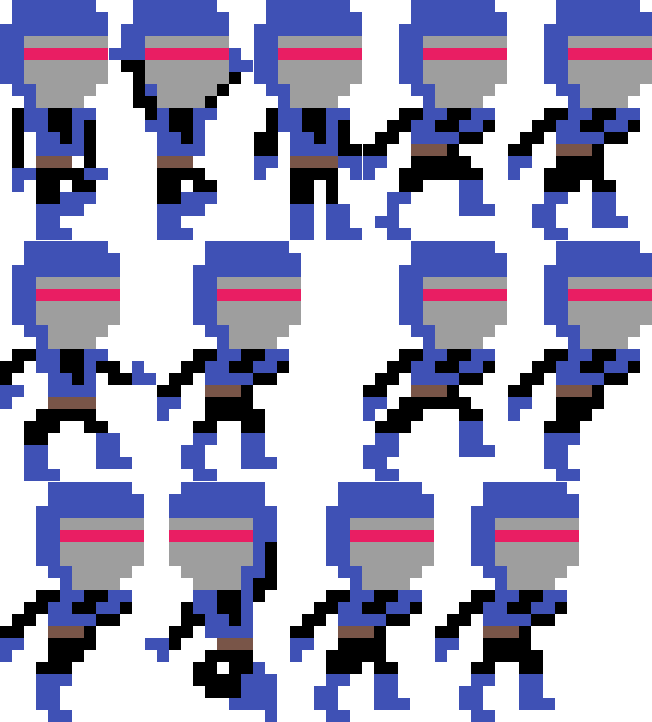
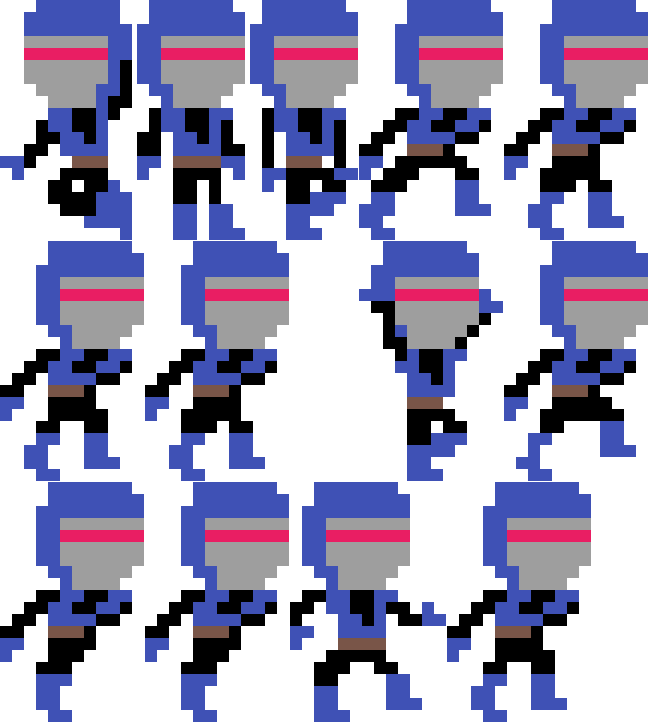
Added a dash bar, but can't find a way to have it read from player variables.

Changed region(s): [[0.0, 0.0, 0.9259, 1.0], [0.8951, 0.5485, 0.9877, 0.6399], [0.6481, 0.1219, 0.679, 0.1524]]

diff --git a/myGame/js/Player.js b/myGame/js/Player.js
@@ -1,21 +1,24 @@
 
 var gameOptions = {
     playerGravity: 900, 
-    playerSpeed: 200,
+    playerSpeed: 250,
     playerJump: 400,
     playerWallJump: 400,
-    playerForce: 225
+    playerForce: 225,
+    playerDash: 400
 }
 
 var jumpButtonDown = false;
 var wallJumpRight = false;
 var wallJumpLeft = false;
 var inAir = false;
-var dash = 0;
+var dash = 90;
+var jumpTime = 0;
+var invincible = false;
 
 function Player(game, x, y, frame) {
 	// call to Phaser.sprite // new sprite (game, x, y, key, frame)
-	Phaser.Sprite.call(this, game, x, y, 'ninja', 'idle');
+	Phaser.Sprite.call(this, game, x, y, 'ninja', 'wallCling');
 	this.anchor.setTo(0.5, 0.5);
     this.scale.setTo(0.3);
 
@@ -27,6 +30,8 @@ function Player(game, x, y, frame) {
     this.body.collideWorldBounds = true;
     this.body.gravity.y = gameOptions.playerGravity;
     this.frameName = 'jump';
+
+    
 }
 
 Player.prototype = Object.create(Phaser.Sprite.prototype);
@@ -59,16 +64,14 @@ Player.prototype.update = function() {
 
         //running animsation for left and right movement
         if(game.input.keyboard.isDown(Phaser.Keyboard.LEFT)){
-        	this.scale.x = -0.3
-        	if(!inAir){
+        	if(!inAir || (inAir && game.time.time > jumpTime)){
             	this.body.velocity.x = -gameOptions.playerSpeed;
-            	this.animations.play('run');
+            	if (!inAir) this.animations.play('run');
             }
         } else if (game.input.keyboard.isDown(Phaser.Keyboard.RIGHT)){
-        	this.scale.x = 0.3
-        	if(!inAir){
+        	if(!inAir || (inAir && game.time.time > jumpTime)){
             	this.body.velocity.x = gameOptions.playerSpeed;
-            	this.animations.play('run');
+            	if (!inAir) this.animations.play('run');
             }
         } 
 
@@ -86,6 +89,7 @@ Player.prototype.update = function() {
         // Can only jump once while  on top of a platform
         if (this.body.touching.down && !inAir) {
             if(!jumpButtonDown && game.input.keyboard.isDown(Phaser.Keyboard.SPACEBAR)) {
+            	inAir = true;
             	this.animations.stop();
             	this.frameName = 'jump';
                 this.body.velocity.y = -gameOptions.playerJump;
@@ -126,6 +130,7 @@ Player.prototype.update = function() {
             this.body.velocity.y = -gameOptions.playerWallJump;
             this.body.velocity.x = -gameOptions.playerForce;
             wallJumpRight = false;
+            jumpTime = game.time.time + 500;
         }
 
         //Wall jump Left
@@ -134,6 +139,7 @@ Player.prototype.update = function() {
             this.body.velocity.y = -gameOptions.playerWallJump;
             this.body.velocity.x =  gameOptions.playerForce;
             wallJumpLeft = false;
+            jumpTime = game.time.time + 500
         }
 
  // *********************
@@ -142,45 +148,109 @@ Player.prototype.update = function() {
 
         // Checks to see if either the right arrow or left arrow have been pressed 
         // so that the dash can done
-        if(game.input.keyboard.isDown(Phaser.Keyboard.D) && this.scale.x < 0){
-            this.body.velocity.x = -600;
-            this.body.gravity.y = 0;
+        if(game.input.keyboard.isDown(Phaser.Keyboard.D) && game.input.keyboard.isDown(Phaser.Keyboard.LEFT)){
+        	wallJumpRight = wallJumpLeft = false;
+            this.body.velocity.x = -gameOptions.playerDash;
             this.body.velocity.y = 0;
-            this.animations.stop();
-            this.frameName = 'run2';
+            if(inAir){
+            	this.animations.stop();
+            	this.body.gravity.y = 0;
+            	this.frameName = 'run2';
+            }
+            invincible = true;
+            //dashBar -= 1;
+        } else if (game.input.keyboard.isDown(Phaser.Keyboard.D) && game.input.keyboard.isDown(Phaser.Keyboard.RIGHT)){
+        	wallJumpRight = wallJumpLeft = false;
+        	this.body.velocity.y = 0;
+            this.body.velocity.x = gameOptions.playerDash;
+            if(inAir){
+            	this.body.gravity.y = 0;
+            	this.animations.stop();
+            	this.frameName = 'run2';
+            }
+            invincible = true;
+            //dashBar -= 1;
+        }else if(game.input.keyboard.isDown(Phaser.Keyboard.D) && this.scale.x < 0){
+        	wallJumpRight = wallJumpLeft = false;
+            this.body.velocity.x = -gameOptions.playerDash;
+            this.body.velocity.y = 0;
+            if(inAir){
+            	this.animations.stop();
+            	this.body.gravity.y = 0;
+            	this.frameName = 'run2';
+            }
+            invincible = true;
             //dashBar -= 1;
         } else if (game.input.keyboard.isDown(Phaser.Keyboard.D) && this.scale.x > 0){
-        	this.body.gravity.y = 0;
+        	wallJumpRight = wallJumpLeft = false;
         	this.body.velocity.y = 0;
-            this.body.velocity.x = 600;
-            this.animations.stop();
-            this.frameName = 'run2';
+            this.body.velocity.x = gameOptions.playerDash;
+            if(inAir){
+            	this.body.gravity.y = 0;
+            	this.animations.stop();
+            	this.frameName = 'run2';
+            }
+            invincible = true;
             //dashBar -= 1;
-        } 
-
-        // When you click up arrow only, sets values to false so that the player can dash only up
+        }
 
         if (game.input.keyboard.isDown(Phaser.Keyboard.UP) && game.input.keyboard.isDown(Phaser.Keyboard.D)){
+        	wallJumpRight = wallJumpLeft = false;
         	this.body.gravity.y = 0;
-            this.body.velocity.y = -600; 
+            this.body.velocity.y = -gameOptions.playerDash; 
             this.body.velocity.x = 0;
             this.frameName = 'dashUp';
+            invincible = true;
         }
 
         if (inAir && game.input.keyboard.isDown(Phaser.Keyboard.DOWN) && game.input.keyboard.isDown(Phaser.Keyboard.D)){
+        	wallJumpRight = wallJumpLeft = false;
         	this.body.gravity.y = 0;
-            this.body.velocity.y = 600;
+            this.body.velocity.y = gameOptions.playerDash;
             this.body.velocity.x = 0; 
             this.frameName = 'dashDown';
+            invincible = true;
         }
         // this is the wip dash code for diagonal down to the right
-        // if(game.input.keyboard.isDown(Phaser.Keyboard.DOWN) && game.input.keyboard.isDown(Phaser.Keyboard.RIGHT) && rightFacing === true){
-        //     this.body.velocity.x = 600;
-        //     this.body.velocity.y = 600;
-        // }
+        if(game.input.keyboard.isDown(Phaser.Keyboard.D) && game.input.keyboard.isDown(Phaser.Keyboard.DOWN) && game.input.keyboard.isDown(Phaser.Keyboard.RIGHT) && inAir){
+        	wallJumpRight = wallJumpLeft = false;
+        	this.frameName = 'dashDown';
+        	this.body.gravity.y = 0;
+             this.body.velocity.x = Math.sqrt(Math.pow(gameOptions.playerDash, 2)/2);
+             this.body.velocity.y = Math.sqrt(Math.pow(gameOptions.playerDash, 2)/2);
+             invincible = true;
+        }
+
+        if(game.input.keyboard.isDown(Phaser.Keyboard.D) && game.input.keyboard.isDown(Phaser.Keyboard.DOWN) && game.input.keyboard.isDown(Phaser.Keyboard.LEFT) && inAir){
+        	wallJumpRight = wallJumpLeft = false;
+        	this.frameName = 'dashDown';
+        	this.body.gravity.y = 0;
+             this.body.velocity.x = -Math.sqrt(Math.pow(gameOptions.playerDash, 2)/2);
+             this.body.velocity.y = Math.sqrt(Math.pow(gameOptions.playerDash, 2)/2);
+             invincible = true;
+        }
+
+        if(game.input.keyboard.isDown(Phaser.Keyboard.D) && game.input.keyboard.isDown(Phaser.Keyboard.UP) && game.input.keyboard.isDown(Phaser.Keyboard.RIGHT)){
+        	wallJumpRight = wallJumpLeft = false;
+        	this.frameName = 'dashUp';
+        	this.body.gravity.y = 0;
+             this.body.velocity.x = Math.sqrt(Math.pow(gameOptions.playerDash, 2)/2);
+             this.body.velocity.y = -Math.sqrt(Math.pow(gameOptions.playerDash, 2)/2);
+             invincible = true;
+        }
+
+        if(game.input.keyboard.isDown(Phaser.Keyboard.D) && game.input.keyboard.isDown(Phaser.Keyboard.UP) && game.input.keyboard.isDown(Phaser.Keyboard.LEFT)){
+        	wallJumpRight = wallJumpLeft = false;
+        	this.frameName = 'dashUp';
+        	this.body.gravity.y = 0;
+             this.body.velocity.x = -Math.sqrt(Math.pow(gameOptions.playerDash, 2)/2);
+             this.body.velocity.y = -Math.sqrt(Math.pow(gameOptions.playerDash, 2)/2);
+             invincible = true;
+        }
 
         // Stops the running animation after the dash button is released 
         if(game.input.keyboard.justReleased(Phaser.Keyboard.D)){
+        	invincible = false;
         	this.body.gravity.y = gameOptions.playerGravity;
         	if(inAir){
         		if(wallJumpRight || wallJumpLeft){
@@ -192,9 +262,5 @@ Player.prototype.update = function() {
         		this.frameName = 'idle';
         	}
         }
-        // if(game.input.keyboard.justPressed(Phaser.Keyboard.SPACEBAR) && game.input.keyboard.isDown(Phaser.Keyboard.D) ){
-        //     dash = false;
-        //     walljump = false;
-        // }
         // *********************
 }

diff --git a/myGame/js/main.js b/myGame/js/main.js
@@ -80,11 +80,9 @@ Inputs.play.prototype = {
         timer.loop(1000, this.updateTime, this);
         timer.start();
 
-
         //	Sprites
         this.bg = this.add.sprite(0, 0, 'Mnt', 'mountain');
         //this.bg = this.add.sprite(0, 250, 'atlas', 'clouds');
-
 
         //creates a player using the Player prefab
         this.player = new Player(game, 100, 300); //100, 300
@@ -221,6 +219,10 @@ Inputs.play.prototype = {
 		this.txt02 = this.add.text(140, 1250, "Nothing Here!");
 		this.txt03 = this.add.text(140, 1362, "Go back.");
 		this.txt04 = this.add.text(2000, 1570, "This is da wae, now start jumping to win!");
+
+		this.dashBar = this.add.sprite(20, 60, 'dashBar');
+		this.dashBar.scale.y = 0.5;
+		this.dashBar.fixedToCamera = true;
 	},
 
 
@@ -277,7 +279,8 @@ Inputs.play.prototype = {
 	render: function() {
 		// show timer01 debug text
 		game.debug.text('Time Elapsed: ' + this.total, 32, 32, "#ff3333", '40px');
-		game.debug.text('Stars: ' + stars, 50, 50, "#000000", '72px');
+		game.debug.text('Dash: ' + this.player.inAir, 50, 50, "#000000", '72px');
+        this.dashBar.scale.x = 1;
 	},
 	endGame: function(){
 		this.state.start('gameover', true, false);

diff --git a/myGame/js/loading.js b/myGame/js/loading.js
@@ -10,6 +10,7 @@
 		// preloading various assets
 		game.load.path = 'assets/img/';
         game.load.spritesheet("levels", "levelSelect.png", game.global.thumbWidth, game.global.thumbHeight);
+        game.load.image('dashBar', 'dashBar.png');
 		game.load.spritesheet("level_arrows", "level_arrows.png", 48, 48);
 		game.load.atlas('atlas', 'PHSpritesheet.png', 'PHsprites.json');
 		game.load.atlas('Mnt', 'tempMnt.png', 'tempMnt.json');
